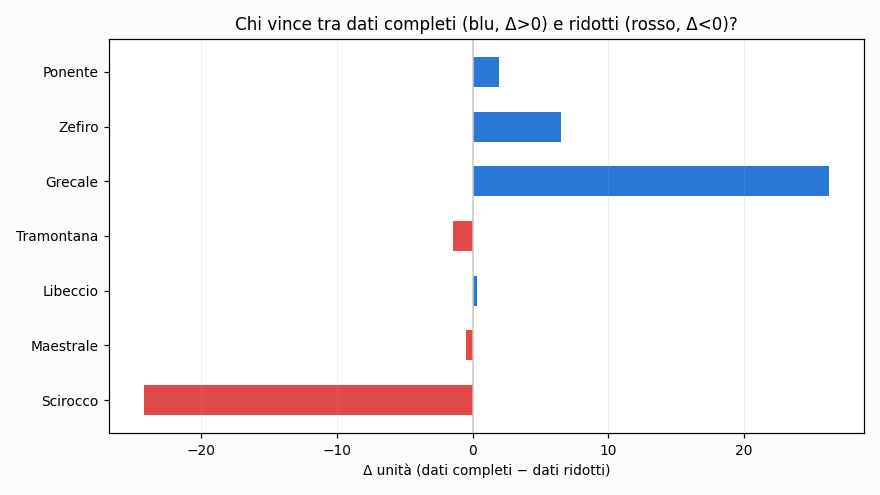
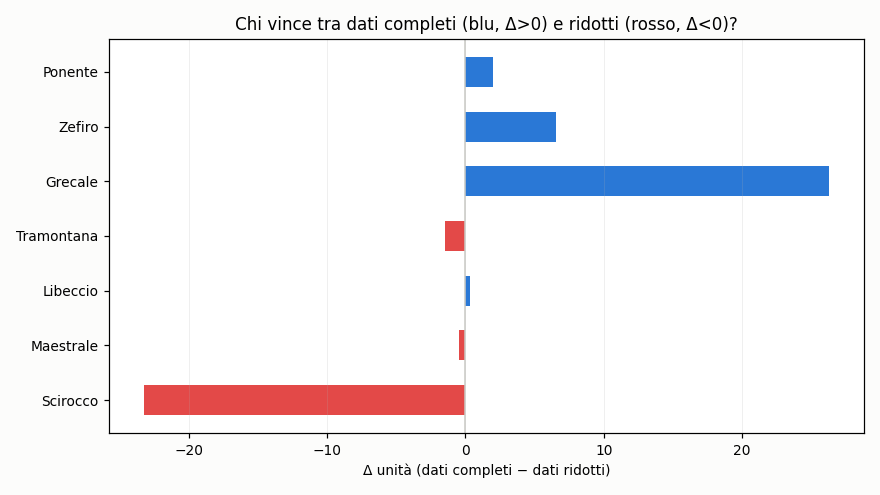
aggiornamento 2026-07-26 16:06 UTC

diff --git a/README.md b/README.md
@@ -37,9 +37,9 @@ scala in unità). Non indichiamo quale.
 
 ## Grafici
 
-![Coppie: dati completi vs ridotti](https://raw.githubusercontent.com/Kitem19/ippica-track-record/main/charts/equity_pairs.png?v=33027e72)
+![Coppie: dati completi vs ridotti](https://raw.githubusercontent.com/Kitem19/ippica-track-record/main/charts/equity_pairs.png?v=c4caf9c5)
 
-![Delta per coppia](https://raw.githubusercontent.com/Kitem19/ippica-track-record/main/charts/coppie_delta.png?v=60596cc2)
+![Delta per coppia](https://raw.githubusercontent.com/Kitem19/ippica-track-record/main/charts/coppie_delta.png?v=8a3a773b)
 
 ### Come leggere i grafici
 
@@ -56,7 +56,7 @@ scala in unità). Non indichiamo quale.
 
 _Poche giornate: numeri ancora rumorosi, si conclude a fine fase (31/7)._
 
-- **Scirocco**: dati ridotti avanti di 24,3u — qui gli extra non aiutano
+- **Scirocco**: dati ridotti avanti di 23,3u — qui gli extra non aiutano
 - **Maestrale**: in sostanziale pareggio — troppo presto per dire
 - **Libeccio**: in sostanziale pareggio — troppo presto per dire
 - **Tramontana**: in sostanziale pareggio — troppo presto per dire
@@ -69,12 +69,12 @@ _Poche giornate: numeri ancora rumorosi, si conclude a fine fase (31/7)._
 | Sistema | Cassa (u) | P/L (u) | Selezioni | Escluse | Stato |
 |---|---|---|---|---|---|
 | Grecale | 26,1 | +6,1 | 301 | 4 | 🟢 |
-| Scirocco-B | 24,2 | +4,2 | 234 | 0 | 🟢 |
+| Scirocco-B | 23,2 | +3,2 | 235 | 0 | 🟢 |
 | Zefiro | 6,1 | -13,9 | 261 | 8 | ⏸ |
 | Tramontana-B | 1,2 | -18,8 | 323 | 12 | ⏸ |
 | Ponente | 1,0 | -19,0 | 210 | 28 | 🟢 |
 | Maestrale-B | 0,0 | -20,0 | 100 | 234 | 🛑 |
-| Scirocco | 0,0 | -20,1 | 80 | 259 | 🛑 |
+| Scirocco | 0,0 | -20,1 | 80 | 260 | 🛑 |
 | Grecale-B | 0,0 | -20,2 | 137 | 173 | 🛑 |
 | Tramontana | 0,0 | -20,3 | 45 | 305 | 🛑 |
 | Zefiro-B | 0,0 | -20,5 | 143 | 70 | 🛑 |
@@ -83,7 +83,7 @@ _Poche giornate: numeri ancora rumorosi, si conclude a fine fase (31/7)._
 | Libeccio-B | 0,0 | -20,9 | 119 | 178 | 🛑 |
 | Ponente-B | 0,0 | -21,0 | 63 | 84 | 🛑 |
 
-_Aggiornato: 26/07 18:01_
+_Aggiornato: 26/07 18:06_
 ---
 *Nessuna delle informazioni qui pubblicate costituisce consiglio di gioco.
 Il gioco può causare dipendenza — 18+.*
